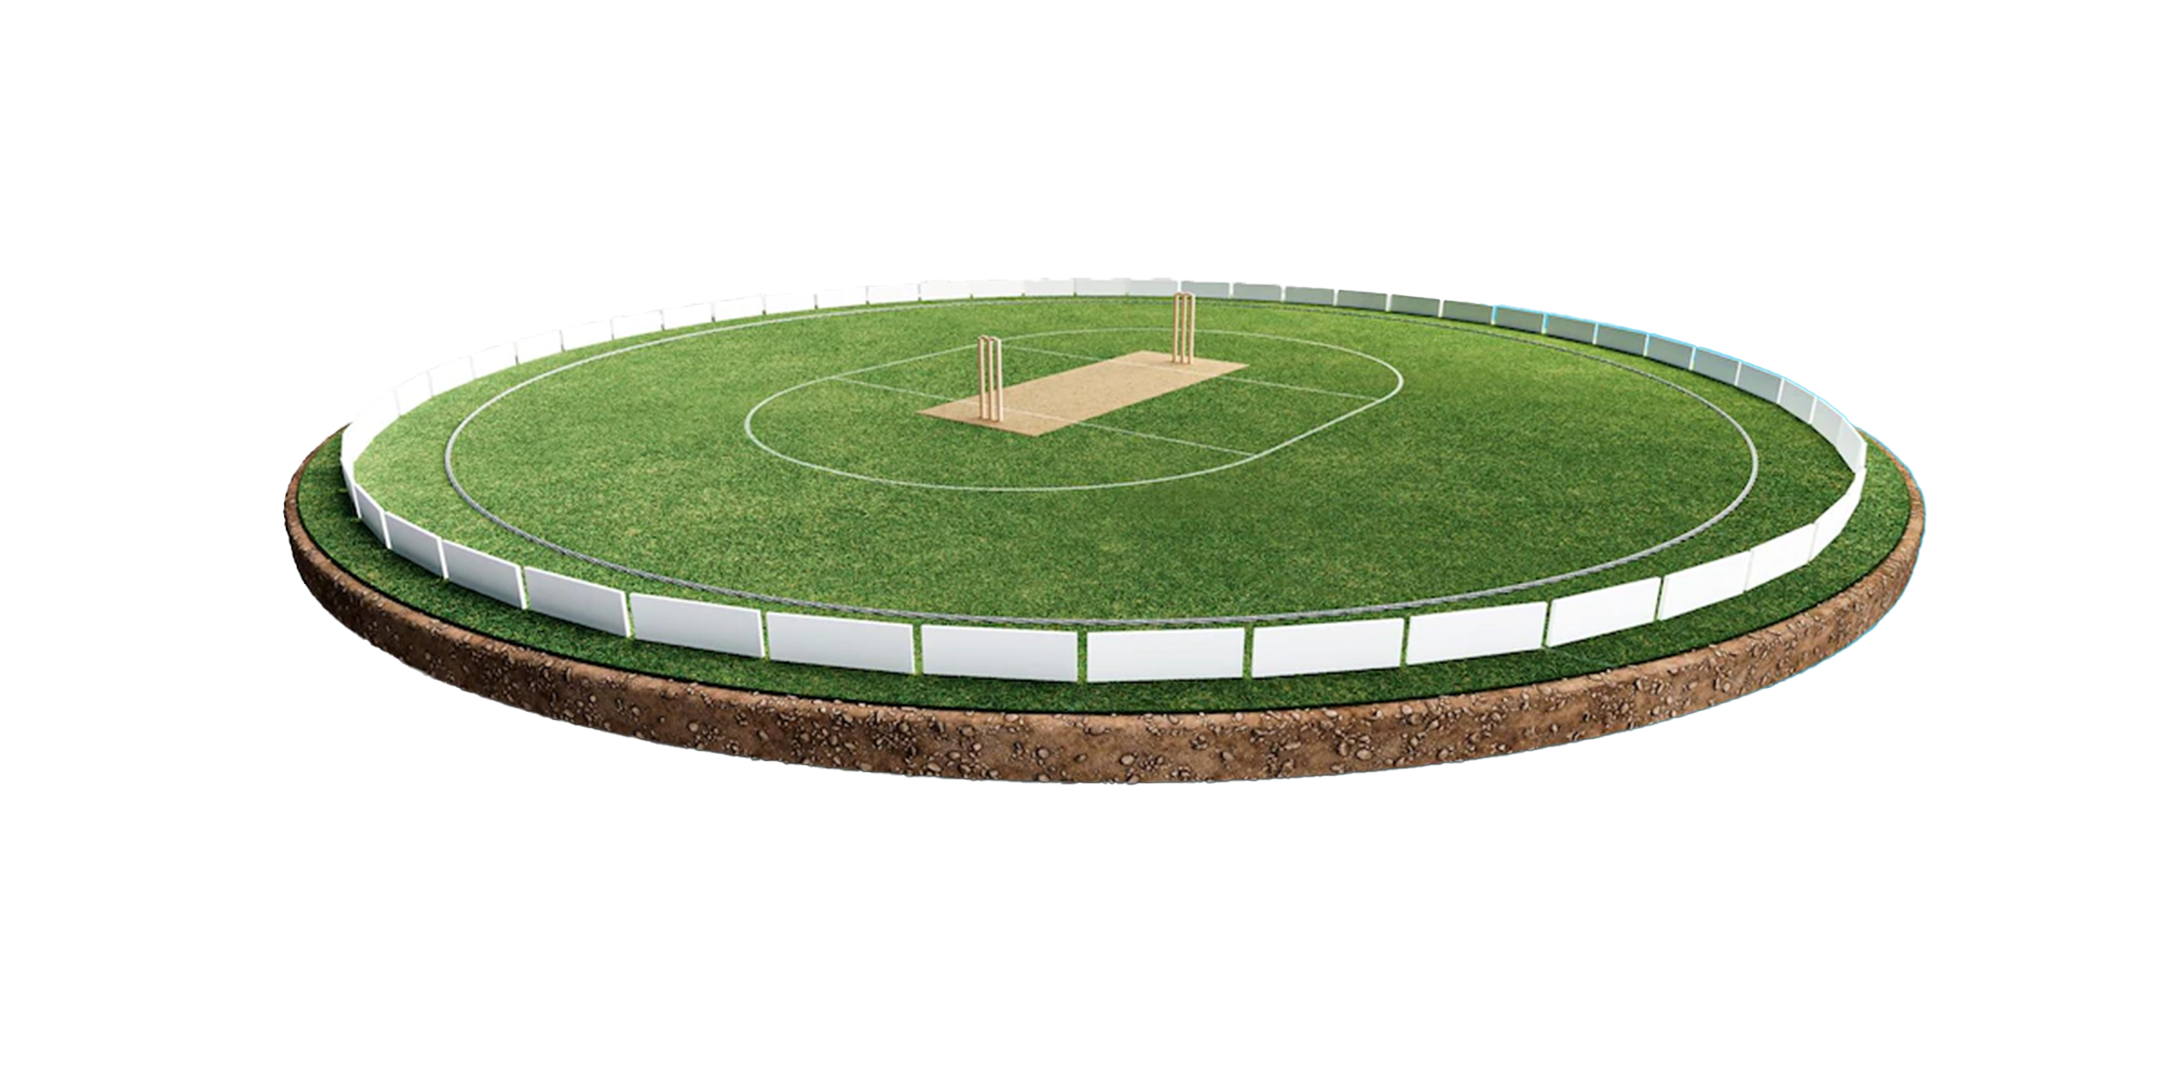
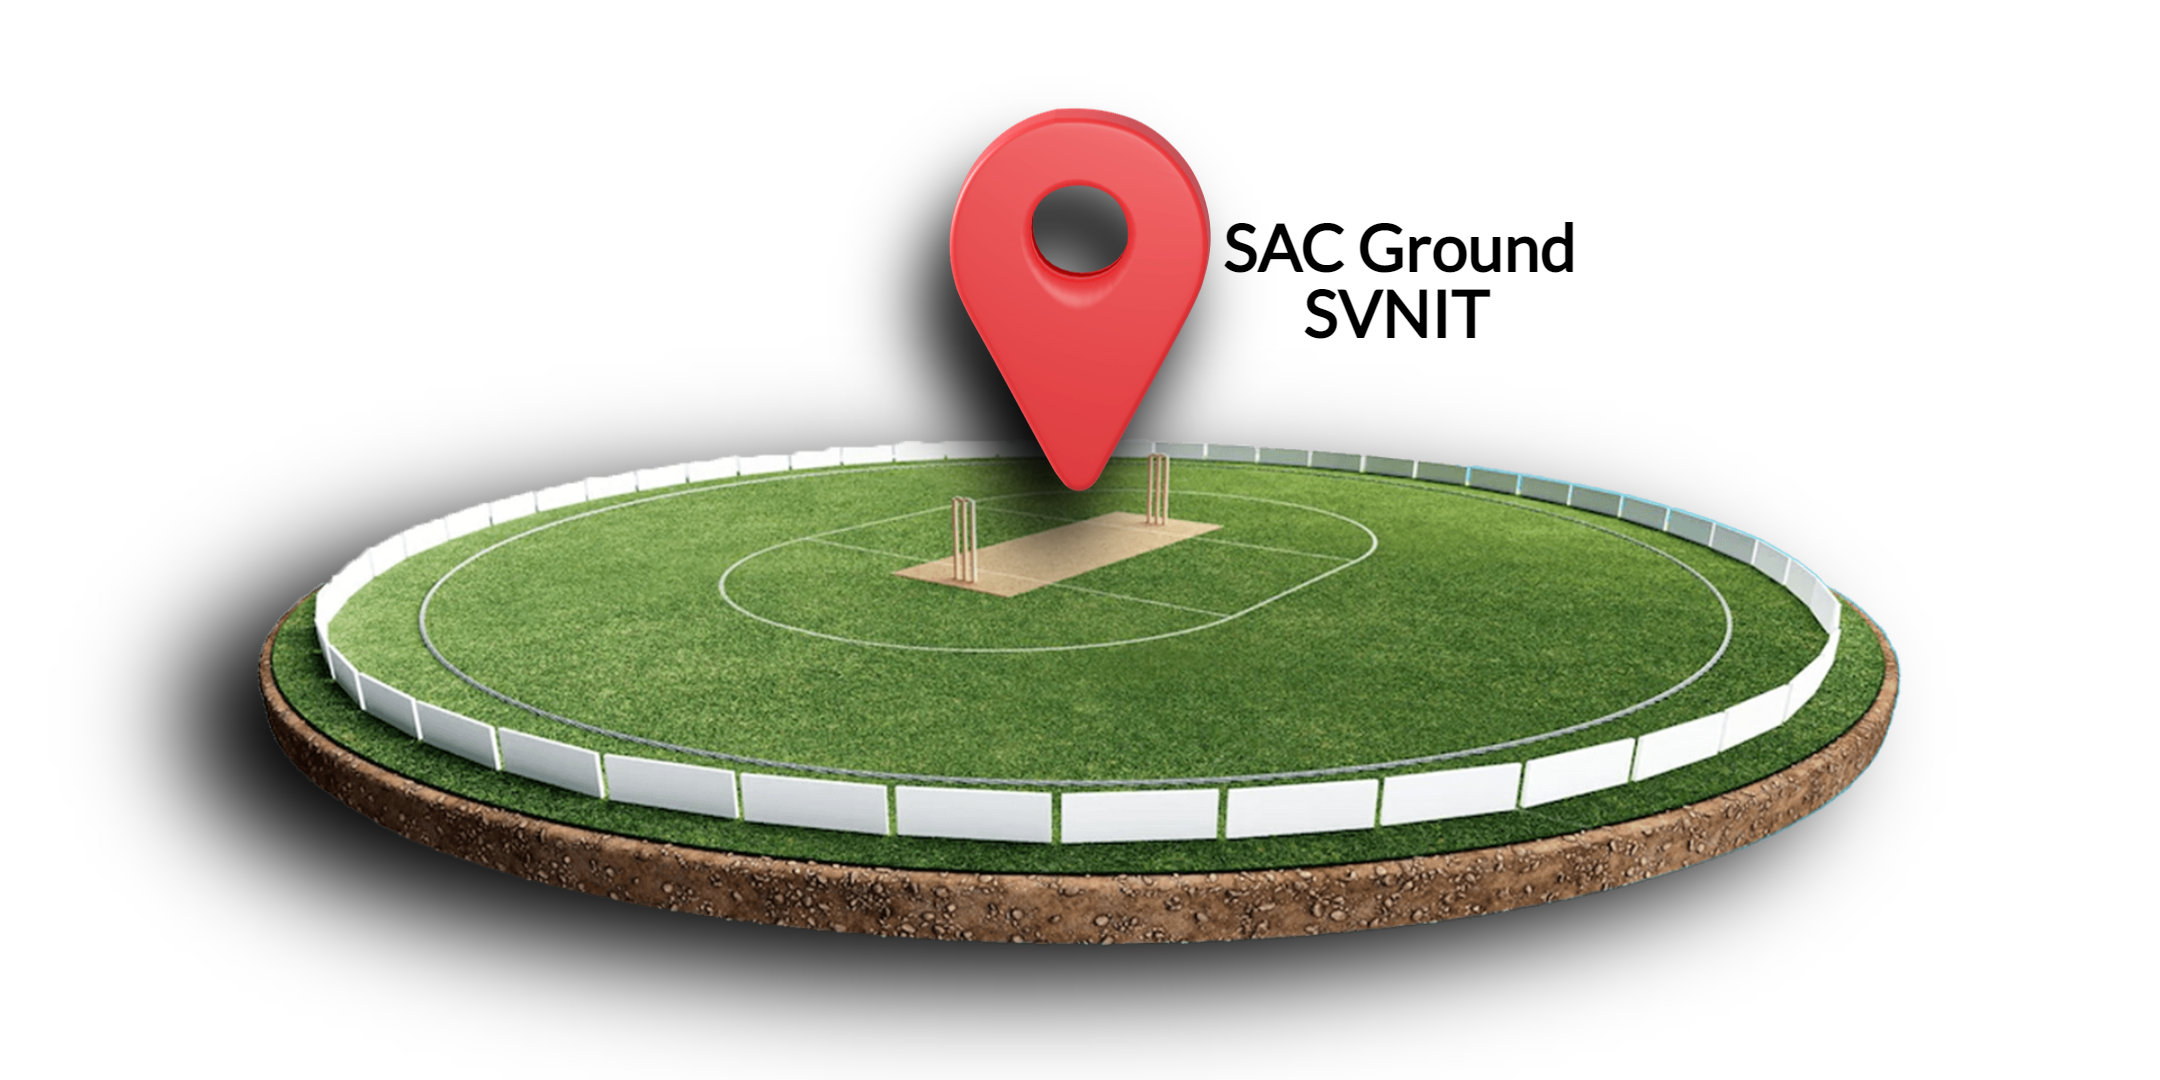
Improved the ui of several components based on screen sizes

diff --git a/components/ParticipatingTeams.jsx b/components/ParticipatingTeams.jsx
@@ -3,14 +3,13 @@ import React, { useEffect, useState } from "react";
 import MatchCard from "./MatchCard";
 import { BsChevronLeft, BsChevronRight } from "react-icons/bs";
 
-const ParticipatingTeams = () => {
-  const [teams, SetTeams] = useState([
-    1, 2, 3, 4, 5, 6, 7, 8, 9, 10, 11, 12, 13, 14, 15,
-  ]);
+const ParticipatingTeams = ({ teamList }) => {
   const [selectedGender, setSelectedGender] = useState("male");
   const [page, setPage] = useState(1);
   const [range, setRange] = useState({ start: 0, end: 5 });
   const [totalPages, setTotalPages] = useState(0);
+  const [maleTeams, setMaleTeams] = useState([]);
+  const [femaleTeams, setFemaleTeams] = useState([]);
 
   const StylesBasedonGender = (gender) => {
     if (selectedGender === gender) {
@@ -24,18 +23,48 @@ const ParticipatingTeams = () => {
     }
   };
 
+  function divisionOfTeamsbasedonGender() {
+    let localMaleTeams = [];
+    let localFemaleTeams = [];
+    teamList.map((team) => {
+      if (team.teamGender.toLowerCase() === "male") {
+        localMaleTeams.push(team);
+      } else {
+        localFemaleTeams.push(team);
+      }
+    });
+    setMaleTeams(localMaleTeams);
+    setFemaleTeams(localFemaleTeams);
+  }
+
   //don't convert both these useEffect to getServerSideProps
   useEffect(() => {
     setRange({ start: 5 * (page - 1), end: 5 * page });
   }, [page]);
 
   useEffect(() => {
-    let pages = teams.length / 5;
-    if (teams.length % 5 !== 0) {
-      pages += 1;
+    divisionOfTeamsbasedonGender();
+
+    if (teamList.length !== 0) {
+      let maleCount = maleTeams.length;
+      let femaleCount = femaleTeams.length;
+
+      let pages = 0;
+      if (selectedGender === "male") {
+        pages = maleCount / 5;
+        if (maleCount % 5 !== 0) {
+          pages++;
+        }
+      } else {
+        pages = femaleCount / 5;
+        if (femaleCount % 5 !== 0) {
+          pages++;
+        }
+      }
+      console.log(maleCount, femaleCount);
+      setTotalPages(pages);
     }
-    setTotalPages(pages);
-  }, [teams]);
+  }, [teamList, selectedGender]);
 
   function colorDeciderForRange(buttonType) {
     if (buttonType === "previous") {
@@ -101,13 +130,21 @@ const ParticipatingTeams = () => {
           </div>
         </div>
         <div className="relative h-[540px] overflow-x-hidden mx-auto">
-          <div className="grid grid-cols-2 gap-2 mx-auto w-[360px]">
-            {teams.map((team, index) => {
-              if (index >= range.start && index < range.end) {
-                return <MatchCard type={`short`} key={index} />;
-              }
-            })}
-          </div>
+          {selectedGender === "male" ? (
+            <div className="grid grid-cols-2 gap-2 mx-auto w-[360px]">
+              {maleTeams.map((team, index) => {
+                if (index >= range.start && index < range.end) {
+                  return <MatchCard type={`short`} team={team} key={index} />;
+                }
+              })}
+            </div>
+          ) : (
+            <div className="grid grid-cols-2 gap-2 mx-auto w-[360px]">
+              {femaleTeams.map((team, index) => {
+                return <MatchCard type={`short`} team={team} key={index} />;
+              })}
+            </div>
+          )}
           {selectedGender === "male" && (
             <div className="flex ml-[20px] items-center font-bold my-5">
               <BsChevronLeft
@@ -219,13 +256,22 @@ const ParticipatingTeams = () => {
             </p>
           </div>
           <div className="float-none ">
-            <div className="grid gap-3 mr-4 grid-cols-2 ">
-              {teams.map((team, index) => {
-                if (index >= range.start && index < range.end) {
-                  return <MatchCard type={`short`} key={index} />;
-                }
-              })}
-            </div>
+            {selectedGender === "male" ? (
+              <div className="grid gap-3 mr-4 grid-cols-2 ">
+                {maleTeams.map((team, index) => {
+                  if (index >= range.start && index < range.end) {
+                    return <MatchCard type={`short`} team={team} key={index} />;
+                  }
+                })}
+              </div>
+            ) : (
+              <div className="grid gap-3 mr-4 grid-cols-2 ">
+                {femaleTeams.map((team, index) => {
+                  return <MatchCard type={`short`} team={team} key={index} />;
+                })}
+              </div>
+            )}
+
             {selectedGender === "male" && (
               <div className="flex ml-[20px] text-4xl items-center font-bold my-5">
                 <BsChevronLeft

diff --git a/components/SuggestionsFromUsers.jsx b/components/SuggestionsFromUsers.jsx
@@ -16,36 +16,41 @@ const SuggestionsFromUsers = () => {
       .catch((e) => alert("try again"));
   };
   return (
-    <div className="px-2 text-justify lg:flex lg:items-center lg:justify-center lg:w-4/5 lg:mx-auto lg:gap-4 bg-red-400 text-white py-6 lg:px-6 lg:text-2xl text-xl">
-      <p className="text-center font-bold text-xl mb-4">Message from <span className="underline">Developers</span></p>
-      <div className="lg:w-2/4">
-        <p className="">
-          We firmly believe that nothing is built perfect in first attempt and
-          often requires iteration after iteration in order to become the best.
-        </p>
-        <p>
-          Hence, if you got any suggestions to incorporate in the website, don't
-          hesitate to leave your suggestions and reviews!
-        </p>
+    <div className=" bg-red-400 text-white py-6 px-4">
+      <p className="text-center font-bold lg:text-3xl mb-4 ">
+        Message from <span className="underline">Developers</span>
+      </p>
+      <div className="px-2 text-justify lg:flex lg:items-center lg:justify-center lg:w-4/5 lg:mx-auto lg:gap-4  lg:px-6 lg:text-2xl text-xl">
+        <div className="lg:w-2/4">
+          <p className="">
+            We firmly believe that nothing is built perfect in first attempt and
+            often requires iteration after iteration in order to become the
+            best.
+          </p>
+          <p>
+            Hence, if you got any suggestions to incorporate in the website,
+            don't hesitate to leave your suggestions and reviews!
+          </p>
+        </div>
+        <form
+          onSubmit={handleSubmit}
+          className="mt-3 lg:my-3 shadow-lg px-2 flex flex-col py-2 border lg:w-2/4 lg:mx-auto lg:rounded-lg bg-white"
+        >
+          <textarea
+            placeholder="Write here"
+            className="px-2 py-1 h-[150px] text-black"
+            required
+            onChange={(e) => {
+              setMessage(e.target.value);
+            }}
+            value={message}
+          />
+          <input
+            type="submit"
+            className="my-2 bg-[#F4A68D] hover:text-[#F4A68D] hover:bg-white border-[#F4A68D] border text-white w-3/5 mx-auto font-semibold text-3xl rounded-lg py-2 cursor-pointer"
+          />
+        </form>
       </div>
-      <form
-        onSubmit={handleSubmit}
-        className="mt-3 lg:my-3 shadow-lg px-2 flex flex-col py-2 border lg:w-2/4 lg:mx-auto lg:rounded-lg bg-white"
-      >
-        <textarea
-          placeholder="Write here"
-          className="px-2 py-1 h-[150px]"
-          required
-          onChange={(e) => {
-            setMessage(e.target.value);
-          }}
-          value={message}
-        />
-        <input
-          type="submit"
-          className="my-2 bg-[#F4A68D] hover:text-[#F4A68D] hover:bg-white border-[#F4A68D] border text-white w-3/5 mx-auto font-semibold text-3xl rounded-lg py-2 cursor-pointer"
-        />
-      </form>
     </div>
   );
 };

diff --git a/components/MatchCard.jsx b/components/MatchCard.jsx
@@ -1,25 +1,27 @@
 import Link from "next/link";
+import { useEffect } from "react";
 import { ImCircleRight } from "react-icons/im";
 
-const MatchCard = ({ type }) => {
+const MatchCard = ({ type, team }) => {
   const teamStyle = "flex items-center justify-center";
   const teamName = "font-extrabold text-lg";
-
   const shortformstyle = "h-[48px] md:h-[60px]";
 
   if (type === "short") {
     return (
-      <div className="flex flex-col md:flex-row  justify-center md:justify-evenly items-center my-2 bg-white w-full lg:w-full  h-[79px] lg:h-[90px] xl:h-[150px] rounded-[8px] mx-auto px-2 shadow-lg ">
+      <div className="flex flex-col md:flex-row  justify-center md:justify-evenly items-center my-2 bg-white w-full lg:w-full  h-[89px] lg:h-[90px] xl:h-[150px] rounded-[8px] mx-auto px-2 py-2 shadow-lg ">
         <img
           alt="team-logo"
           className={shortformstyle}
-          src="https://mir-s3-cdn-cf.behance.net/projects/404/168243107813919.Y3JvcCwzMDAwLDIzNDYsMCw0MjM.jpg"
+          src={`${imageUrlProducer(team?.teamLogo)} `}
         />
         <div className="flex flex-col">
           {" "}
-          <p className="text-[15px] xl:text-[25px] lg:text-[20px] font-[600]">Team's Name</p>
+          <p className="text-[15px] xl:text-[25px] lg:text-[20px] font-[600]">
+            {team?.teamName}
+          </p>
           <p className="text-[15px] hidden lg:flex text-gray-600 font-[600]">
-            Team's year
+            {team?.teamType}
           </p>
           <Link
             href={`/team-detail`}
@@ -66,3 +68,11 @@ const MatchCard = ({ type }) => {
 };
 
 export default MatchCard;
+
+function imageUrlProducer(url) {
+  if (url?.length !== 0) {
+    return url;
+  } else {
+    return "https://mir-s3-cdn-cf.behance.net/projects/404/168243107813919.Y3JvcCwzMDAwLDIzNDYsMCw0MjM.jpg";
+  }
+}

diff --git a/components/Home.jsx b/components/Home.jsx
@@ -57,24 +57,15 @@ function HomePage() {
           </p>
         </div>
         <div className="h-[200px] lg:hidden relative">
-          <div className="w-full ">
+          <div className={` w-[${screenSize}] h-[230px]`}>
             <Image
-              height={230}
-              width={459}
+              height={250}
+              width={392}
               src={`/vector-1.png`}
               alt="ground picture"
-              className="absolute md:relative top-0 -left-[72px] w-[510px] h-[230px]"
+              priority
+              className={`z-40 absolute md:relative top-0 -left-[60px]`}
             />
-            <Image
-              src={`/location-pointer.png`}
-              height={200}
-              width={70}
-              className="absolute left-[90px] top-[15px]"
-            />
-          </div>
-          <div className="absolute font-[700] text-[14px] leading-[17px] text-[#392908] left-[153px] top-[20px]">
-            <p>SAC Ground</p>
-            <p>SVNIT</p>
           </div>
         </div>
 
@@ -85,17 +76,9 @@ function HomePage() {
             <img
               src={`/vector-1.png`}
               alt="ground picture"
+              priority
               className="w-[791px] h-[396px]"
             />
-            <img
-              src={`/location-pointer.png`}
-              alt="location Pointer"
-              className={`w-[143px] absolute h-[143px] top-0 right-[320px]`}
-            />
-          </div>
-          <div className=" font-[700] absolute text-[14px] leading-[17px] text-[#392908] top-[40px] right-[240px]">
-            <p>SAC Ground</p>
-            <p>SVNIT</p>
           </div>
         </div>
       </div>

diff --git a/pages/index.js b/pages/index.js
@@ -1,4 +1,6 @@
+import { collection, getDocs } from "firebase/firestore";
 import Head from "next/head";
+import { db } from "../components/db/Firebase";
 import Followup from "../components/Followup";
 import Footer from "../components/Footer";
 import HomePage from "../components/Home";
@@ -10,7 +12,7 @@ import TournamentDetails from "../components/TournamentDetails";
 import TournamentHistory from "../components/TournamentHistory";
 import UpcomingMatches from "../components/UpcomingMatches";
 
-export default function Home() {
+export default function Home({teamList}) {
   return (
     <div className="text-xl">
       <Head>
@@ -23,7 +25,7 @@ export default function Home() {
       <HomePage />
       <Followup />
       <UpcomingMatches />
-      <ParticipatingTeams />
+      <ParticipatingTeams teamList={teamList} />
       <TournamentDetails />
       <TournamentHistory/>
       {/* new feature where users can upload there selfies on the matchdays with unique moments which will then be voted by others and one who receives most votes will win */}
@@ -33,4 +35,20 @@ export default function Home() {
       <Footer />
     </div>
   );
+}
+
+
+export async function getServerSideProps() {
+  let data = [];
+
+  const querySnapshot = await getDocs(collection(db, "participating-teams"));
+  querySnapshot.forEach((doc) => {
+    data.push(doc.data());
+  });
+
+  return {
+    props: {
+      teamList: data,
+    },
+  };
 }

diff --git a/components/TournamentDetails.jsx b/components/TournamentDetails.jsx
@@ -4,16 +4,18 @@ import Link from "next/link";
 
 const TournamentDetails = () => {
   return (
-    <div className="my-5 md:my-10 md:w-4/5 bg-[#191799]  text-white w-[328px] rounded-lg font-bold flex items-center mx-auto px-8 py-8 justify-center md:text-[24px] md:gap-4">
+    <Link
+      href="/faq"
+      className="my-5 md:my-10 md:w-4/5 bg-[#191799]  text-white w-[328px] rounded-lg font-bold flex items-center mx-auto px-8 py-8 justify-center md:text-[24px] md:gap-4 hover:shadow-lg"
+    >
       <p className="w-4/5 md:w-auto">
-        See the frequently <br className="md:hidden"/>
-        Asked questions <br className="md:hidden"/>
+        See the frequently <br className="md:hidden" />
+        Asked questions <br className="md:hidden" />
         about MMNCT
       </p>
-      <Link href="/faq" className="text-5xl cursor-pointer">
-        <CiCircleChevRight className="" />
-      </Link>
-    </div>
+
+      <CiCircleChevRight className="text-5xl cursor-pointer" />
+    </Link>
   );
 };
 

diff --git a/components/Navbar.jsx b/components/Navbar.jsx
@@ -43,7 +43,7 @@ function Navbar() {
           }}
         /> */}
         <GiHamburgerMenu
-          className="mt-2 hover:text-green-600  text-4xl border border-gray-500 rounded-md"
+          className="mt-2 hover:text-green-600  text-4xl"
           onClick={() => {
             setShowMenu(true);
           }}
